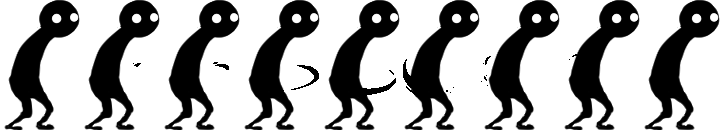
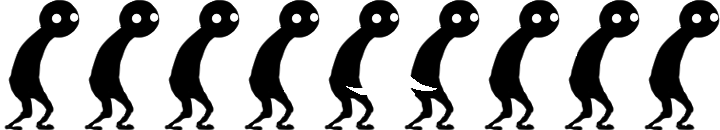
Broken eye bounding boxes

diff --git a/src/scenes/textTransition.js b/src/scenes/textTransition.js
@@ -8,33 +8,34 @@ class TextTransition extends Phaser.Scene {
 
     create() {
         spacebar = this.input.keyboard.addKey(Phaser.Input.Keyboard.KeyCodes.SPACE);
+        console.log("textTransition ", nextScene);
 
         if (nextScene == "play") {
             //display lore text for play scene
             this.playText = this.add.sprite(0,0, 'crazy_cat').setOrigin(0, 0);
 
-            console.log("textTransition ", nextScene);
+            //console.log("textTransition ", nextScene);
             nextScene = "forest";
         } 
         else if (nextScene == "forest") {
             //display lore text for forest scene
             this.forestText = this.add.sprite(0,0, 'crazy_cat').setOrigin(0, 0);
 
-            console.log("textTransition ", nextScene);
+            //console.log("textTransition ", nextScene);
             nextScene = "crevice";
         } 
-        else if (this.nextScene == "crevice") {
+        else if (nextScene == "crevice") {
             //display lore text for crevice scene
             this.creviceText = this.add.sprite(0,0, 'crazy_cat').setOrigin(0, 0);
 
-            console.log("textTransition ", nextScene);
+            //console.log("textTransition ", nextScene);
             nextScene = "ending";
         } 
-        else if (this.nextScene == "ending") {
-            //display lore text for crevice scene
-            this.creviceText = this.add.sprite(0,0, 'crazy_cat').setOrigin(0, 0);
+        else if (nextScene == "ending") {
+            //display lore text for ending scene
+            this.endingText = this.add.sprite(0,0, 'crazy_cat').setOrigin(0, 0);
 
-            console.log("textTransition ", nextScene);
+            //console.log("textTransition ", nextScene);
             nextScene = "play";
         }
     }

diff --git a/src/scenes/crevice.js b/src/scenes/crevice.js
@@ -54,6 +54,7 @@ class Crevice extends Phaser.Scene {
         this.cairn.setScale(1.2);
 
         this.hugh = new Player(this, 20, 0, 'hugh').setOrigin(0,0);
+        this.hugh.camo = false;
         this.strikeDistance = 40;
         this.grayCollider = this.physics.add.collider(this.hugh, this.grayPlatform1);
         this.blackCollider = this.physics.add.collider(this.hugh, this.blackPlatform1);
@@ -84,6 +85,8 @@ class Crevice extends Phaser.Scene {
         this.beam1.alpha = 0;
         this.beam2.alpha = 0;
         this.beam3.alpha = 0;
+
+    
         
     }
 
@@ -93,7 +96,35 @@ class Crevice extends Phaser.Scene {
         if (this.frameTime > 16.5) {
             this.frameTime = 0;
 
+
+            //if(this.hugh.y > 180 && this.hugh.y < 210 && this.beam1.alpha == 1){
+            //    this.hugh.die();
+            //}
+
+
             this.eye1.update(this.hugh);
+
+            //console.log(this.eye1.frame.name);
+            if(this.eye1.frame.name == 0){
+                this.beam1.alpha = 1;
+            }else{
+                //console.log(this.eye1.frame);
+                this.beam1.alpha = 0;
+            }
+
+            if(this.eye2.frame.name == 0){
+                this.beam2.alpha = 1;
+            }else{
+                //console.log(this.eye1.frame);
+                this.beam2.alpha = 0;
+            }
+
+            if(this.eye3.frame.name == 0){
+                this.beam3.alpha = 1;
+            }else{
+                //console.log(this.eye1.frame);
+                this.beam3.alpha = 0;
+            }
             
             //update code here
             //this.mist.tilePositionX += 1;

diff --git a/src/prefabs/eye.js b/src/prefabs/eye.js
@@ -70,6 +70,22 @@ class Eye extends Phaser.GameObjects.Sprite {
 
 
     update(Player) {
+        //eye collision
+        /*if(((Player.x > this.x && Player.x < this.x + this.width) || //checking x collision
+        (Player.x+Player.width > this.x && Player.x+Player.width < this.x+this.width)) &&  //checking x collision
+          ((Player.y > this.y && Player.y < this.y+this.height) ||  //checking y collision
+            (Player.y+Player.height > this.y && Player.y+Player.height < this.y+this.height))) {
+
+            console.log("eye collision detected");
+        }*/
+        //console.log(Player.y, " and this y: ", this.y);
+        
+        if(((Player.y > this.y && Player.y < this.y+this.height) ||  //checking y collision
+        (Player.y+Player.height > this.y && Player.y+Player.height < this.y+this.height))) {
+
+            console.log("eye collision detected");
+        }
+
         this.checkSight(Player);
         //console.log(this.texture.key);
     }

diff --git a/src/scenes/title.js b/src/scenes/title.js
@@ -58,7 +58,7 @@ class Title extends Phaser.Scene { //we can use menu to load all the assets for 
     }
 
     update() {
-        this.scene.start('ending');
+        this.scene.start('crevice');
 
         //finished is a variable that keeps track of whether or not the player has played through the game once already.
         //we don't want to show the controls to a player who has already beaten the game.
